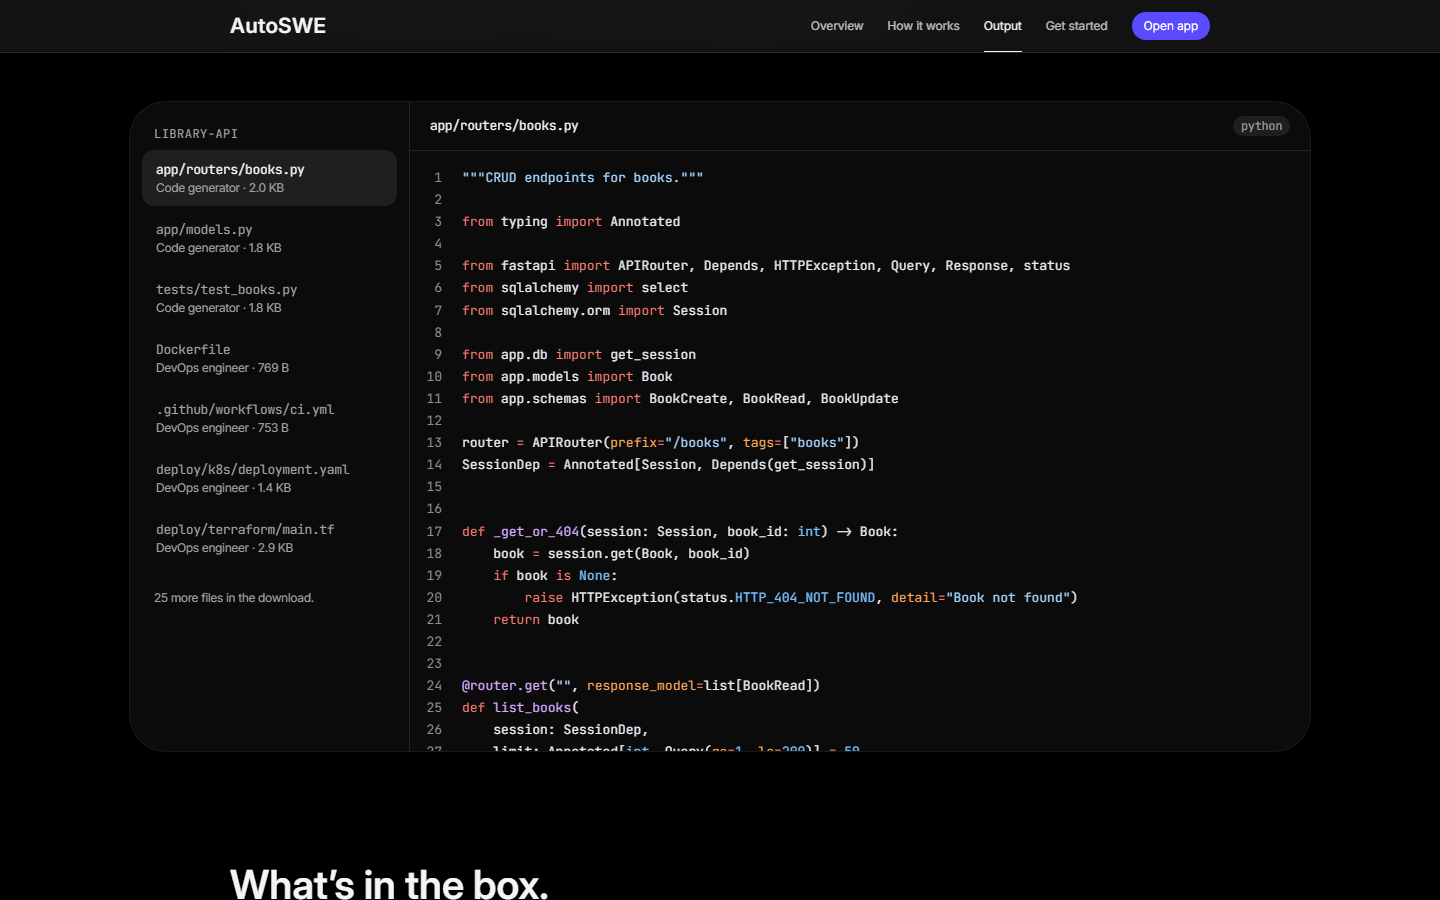
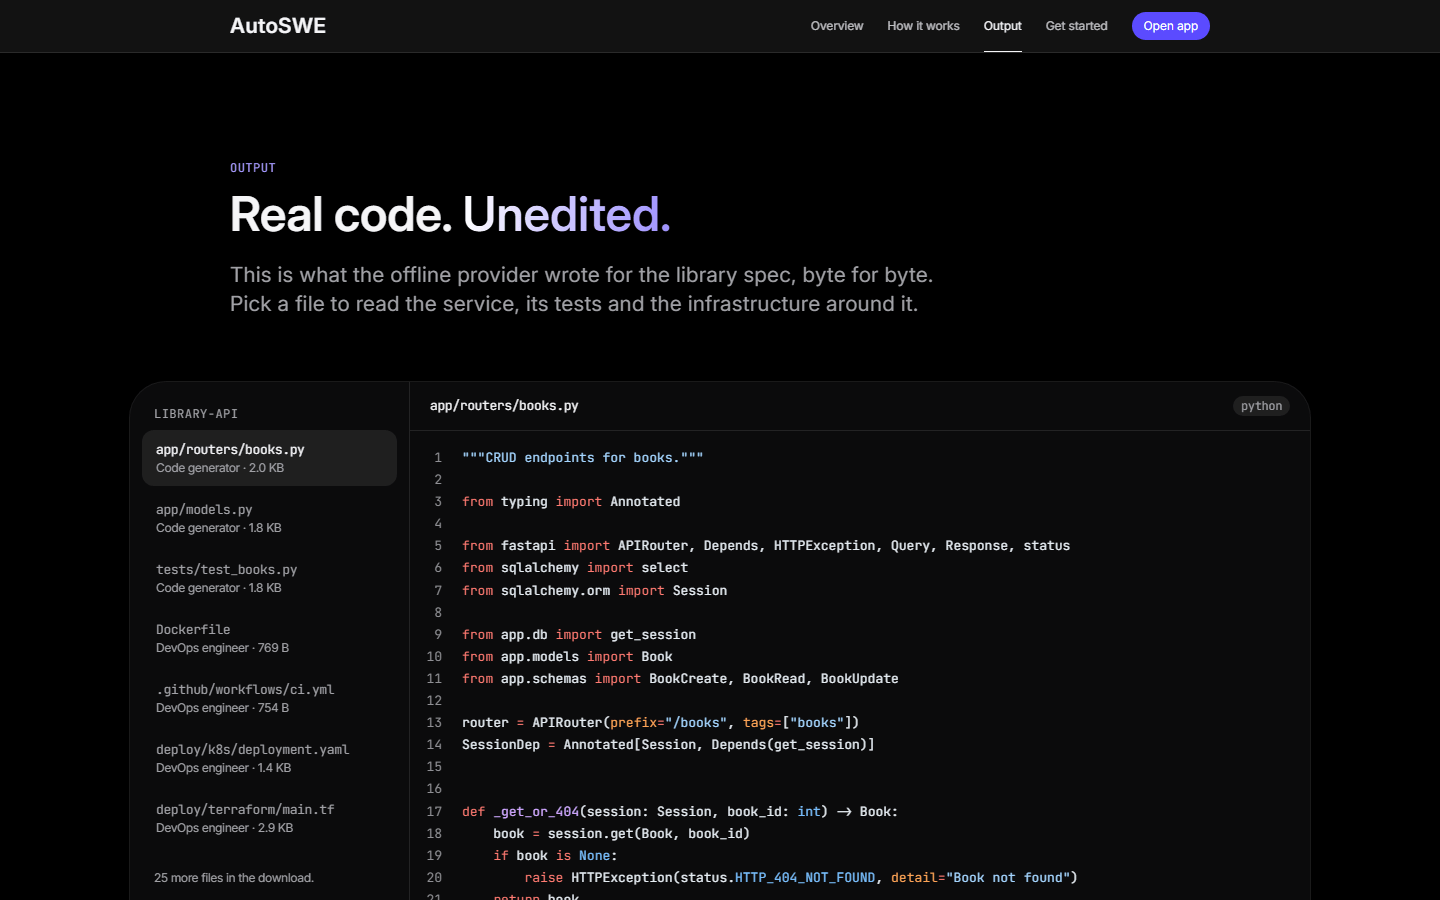
docs: README and visuals match the polished build
- Recording: an animated WebP (479 KB, 10 fps, 960 px) with a shorter
  GIF fallback in <picture>, replacing the 832 KB GIF; the caption says
  how it was paced and that it plays at 1.5x.
- All screenshots retaken from the real app on the offline provider and
  palette-compressed with sharp (12 images, 1.4 MB -> 0.7 MB). The old
  architecture screenshot showed a mis-scaled diagram and a focus ring
  from a mouse click; both are fixed.
- CLI quickstart: `uv run ruff check . && uv run pytest` in the
  generated project instead of a bare `pip install` into whatever
  Python is active.
- Using Claude: what the wire-level tests verify and what remains
  unverified against the live API.
- Test counts (231 backend, 27 unit, 24 e2e), what Playwright actually
  covers, the before_id cursor, path-safety rules, the CSP, the
  performance work and the new modules in the project tree.

diff --git a/README.md b/README.md
@@ -22,10 +22,14 @@ on a deterministic **offline provider** that needs no API key, so tests, CI and 
 > The platform **generates** infrastructure code. It never runs `terraform apply` or deploys
 > anything to AWS for you. The generated Terraform is checked with `terraform validate` in CI.
 
-![A job running live: the five agents hand over one by one, events stream in, then the generated files open](docs/job-running.gif)
+<picture>
+  <source srcset="docs/job-running.webp" type="image/webp">
+  <img alt="A job running live: the five agents hand over one by one, events stream in, then the generated files open" src="docs/job-running.gif">
+</picture>
 
 <sub>A real job on the library spec, recorded from the studio with the offline provider and
-`OFFLINE_DELAY_S=0.8` so each stage stays on screen long enough to see.</sub>
+`OFFLINE_DELAY_S=2` so each stage stays on screen long enough to see, played at 1.5× speed.
+Animated WebP (479 KB), with a shorter GIF for clients that cannot show WebP.</sub>
 
 ## Features
 
@@ -40,11 +44,13 @@ on a deterministic **offline provider** that needs no API key, so tests, CI and 
     (`members borrow books` → `Member`, `Book`, or explicit `Book(title, year:int)` syntax) and
     renders a working FastAPI CRUD service.
 - **Validation of generated output**:
-  - Path-safety and size limits (zip-slip and absolute paths are rejected).
+  - Path-safety and size limits: absolute paths, `..`, `.git` in any letter case, and names
+    that are unsafe once extracted on Windows or macOS are rejected; paths that differ only in
+    case count as one file.
   - Every file is parsed: `ast` for Python, PyYAML, python-hcl2 for Terraform, `json`, `tomllib`.
   - Kubernetes rules: probes, resource limits, non-root, privileged containers.
   - Dockerfile rules: pinned base images, non-root user, health check.
-  - GitHub Actions rules: triggers, `runs-on`, pinned actions.
+  - GitHub Actions rules: triggers, `runs-on`, version-pinned actions.
   - A secret scanner, required-structure checks, and design-to-code traceability.
   - When validation fails, one bounded **repair round** goes back to the code generator.
 - **Async jobs with durable state**: SQLAlchemy 2.0 (SQLite by default, PostgreSQL in compose and
@@ -59,8 +65,8 @@ on a deterministic **offline provider** that needs no API key, so tests, CI and 
   LLM tokens, validation issues), structured JSON logs carrying `request_id` and `job_id`, and
   `/healthz` and `/readyz` probes.
 - **Security**: API-key auth with jobs scoped to each principal (cross-tenant access returns 404),
-  per-principal active-job limits, a strict CSP and security headers, a non-root container, and
-  no secrets in code.
+  per-principal active-job limits, a strict CSP (the UI's inline boot script is admitted by its
+  hash, nothing else inline), security headers, a non-root container, and no secrets in code.
 - **Web UI** (React, TypeScript, Tailwind, Motion, Radix):
   - A product page at `/`, dark-first, built from a real offline run of the pipeline: a replay
     of the run on the five-agent rail, a scroll story that shows what each agent produced, and an
@@ -69,8 +75,11 @@ on a deterministic **offline provider** that needs no API key, so tests, CI and 
     activity log, file tree with Shiki highlighting, architecture (Mermaid), review and
     requirements tabs, a ⌘K / Ctrl+K command palette, toasts and accessible dialogs.
   - Light and dark themes that follow the OS (with a manual switch), reduced-motion support,
-    designed loading, empty and error states, and layouts from 390px up. Playwright and axe
-    check every page for WCAG 2.2 AA in CI.
+    designed loading, empty and error states, and layouts from 320px up.
+  - Fast on a phone: the product page and the studio's loading states are prerendered at build
+    time and hydrated, assets are precompressed (Brotli, gzip) and cached as immutable, the
+    interface fonts are subset, code is highlighted in a Web Worker, and everything not needed
+    for the first paint loads on demand.
 - **Deployment for the platform itself**: a Kustomize base and AWS Terraform (ECS Fargate, ALB,
   RDS, Secrets Manager).
 - **CLI**: `autoswe generate "<spec>" --out ./project` runs the whole pipeline locally.
@@ -178,7 +187,7 @@ product page is at `/` and the studio at `/app`.
 
 ```bash
 uv run autoswe generate "A REST API for a small library where members borrow books and librarians track loans with due dates." --out ./library-api
-cd library-api && pip install -e . pytest httpx ruff && ruff check . && pytest
+cd library-api && uv run ruff check . && uv run pytest   # uv creates the project's own .venv
 ```
 
 ## Using Claude
@@ -194,11 +203,21 @@ call works as follows:
 - The static system prompt is marked cacheable.
 - `fallbacks: "default"` is enabled, so a model refusal is retried server-side. Disable it with
   `ANTHROPIC_SERVER_FALLBACKS=false`.
-- Refusals, truncation (`max_tokens`), schema mismatches, rate limits and auth errors surface as
-  typed errors and fail the job with a clear message.
+- Refusals, truncation (`max_tokens`), an exhausted context window, schema mismatches, rate
+  limits, overloads (including an `error` event in the middle of a stream) and auth errors surface
+  as typed errors and fail the job with a clear message; transient ones say the job can be
+  resubmitted.
+- Token counts include cache reads and writes, and every attempt of a server-side fallback
+  (`usage.iterations`).
 
-The Claude path is unit-tested against a fake SDK client: request shape, response parsing and the
-error mapping. It was **not** exercised against the live API while building this repository.
+What is tested, and what is not: `tests/test_anthropic_wire.py` runs the official `anthropic` SDK
+against a mocked HTTP transport that answers with Server-Sent Events in the documented Messages
+streaming shapes (thinking and text blocks, `fallback` blocks, `stop_details`, `usage.iterations`,
+mid-stream `error` events). It checks the exact request the SDK sends (URL, beta header, body) and
+how each response is handled; `tests/test_anthropic_provider.py` covers the provider's own logic
+with a stand-in client. No test calls the live API, and the Claude path was **not** run against
+it while building this repository, so whether the API accepts this request today, and whether its
+responses still look like this, is unverified.
 
 ## Configuration
 
@@ -235,7 +254,7 @@ Authenticate with `Authorization: Bearer <key>` or `X-API-Key: <key>`. Interacti
 | Method | Path | Description |
 | --- | --- | --- |
 | `POST` | `/api/v1/jobs` | Submit `{spec, title?, provider?}`; returns `202` with the job |
-| `GET` | `/api/v1/jobs` | Your jobs, newest first (`limit`, `before` cursor) |
+| `GET` | `/api/v1/jobs` | Your jobs, newest first (`limit`; page with `before` and `before_id` from `next_cursor` and `next_cursor_id`) |
 | `GET` | `/api/v1/jobs/{id}` | Status, per-stage progress, durations, tokens, validation summary |
 | `GET` | `/api/v1/jobs/{id}/events` | **SSE** stream; replays history, follows live, ends with `end` |
 | `GET` | `/api/v1/jobs/{id}/requirements` | Requirements artifact |
@@ -279,32 +298,38 @@ development its Docker image was also built and run, and it reported `healthy`.
 
 ```bash
 uv run ruff check . && uv run ruff format --check . && uv run mypy   # lint, format, strict types
-uv run pytest -q                                                      # 147 tests
-cd frontend && npm run lint && npm run typecheck && npm test && npm run build   # 17 unit tests
-npm run e2e        # in frontend/, after the build: 17 Playwright + axe tests on the real stack
+uv run pytest -q                                                      # 231 tests
+cd frontend && npm run lint && npm run typecheck && npm test && npm run build   # 27 unit tests
+npm run e2e        # in frontend/, after the build: 24 Playwright + axe tests on the real stack
 ```
 
 The backend tests cover:
 
-- Agent pipeline behaviour, including repair rounds, stage file ownership, and rejection of unsafe
-  paths produced by the LLM.
+- Agent pipeline behaviour, including repair rounds, stage file ownership (case-insensitive), and
+  rejection of unsafe paths produced by the LLM, including names unsafe only on Windows or macOS.
 - Every validator.
 - The offline heuristics.
 - API behaviour and validation errors.
 - Per-principal isolation and auth edge cases.
-- SSE replay and resume.
-- Queue semantics: concurrent claim races, cancellation of a running job, crash containment,
-  requeue on shutdown, stale-job reaping, and two app replicas sharing one database.
-- Metrics, headers, the SPA fallback and path traversal.
+- SSE replay and resume, including malformed `Last-Event-ID` headers.
+- Queue semantics: concurrent claim races, a cancel racing a claim, cancellation of a running job,
+  crash containment, requeue on shutdown, stale-job reaping (a reaped job keeps its outcome), and
+  two app replicas sharing one database.
+- Metrics, security headers and the CSP, serving the UI (precompressed and immutable assets,
+  the page for each route) and path traversal.
 - That the migrations match the models.
-- The Anthropic provider (fake client).
+- The Anthropic provider: its own logic (stand-in client) and the real SDK over a mocked HTTP
+  transport (see [Using Claude](#using-claude)).
 - An end-to-end test that runs a generated project's own lint and tests.
 - That the product page's sample data still matches what the offline pipeline produces.
 
 The Playwright suite starts the real server (FastAPI, worker, offline provider) on port 5150
-and checks the product page and the studio: axe finds no serious or critical WCAG 2.2 AA
-issues in either theme at desktop and phone sizes, nothing overflows at 390px, a job runs live
-through all five agents, and the carousel, command palette, dialogs and not-found states work.
+and checks the product page and the studio. axe finds no serious or critical WCAG 2.2 AA issues
+on the product page (both themes, desktop and phone), the new-project page, a finished job (both
+themes), the command palette, the delete dialog and the not-found page. Nothing overflows at 390px
+or 320px; a job runs live through all five agents; the product page is complete without
+JavaScript; and the carousel, keyboard focus, appearance (including blocked storage), command
+palette, dialogs and not-found states work.
 Set `E2E_SERVER_COMMAND` if `uv` is not on your `PATH`.
 
 ## Deploying the platform
@@ -363,8 +388,11 @@ src/autoswe/
 │   └── registry.py
 ├── models.py, repository.py, db.py, migrations/   # SQLAlchemy 2.0 + Alembic
 ├── worker.py, events.py        # DB-backed queue, notifier
+├── web.py                      # serves the UI: page per route, precompressed immutable assets
 └── security.py, observability.py, logging_config.py, config.py, schemas.py
 frontend/                       # Vite + React + TypeScript + Tailwind UI
+├── boot.js                     # inline before first paint: theme, chunk preloads, early fetch
+├── scripts/                    # build steps: prerender pages, compress assets, subset fonts
 ├── src/landing/                # product page (/), sample.json = one real offline run
 ├── src/app/                    # studio (/app): shell, timeline, activity, command palette
 └── e2e/                        # Playwright + axe tests
